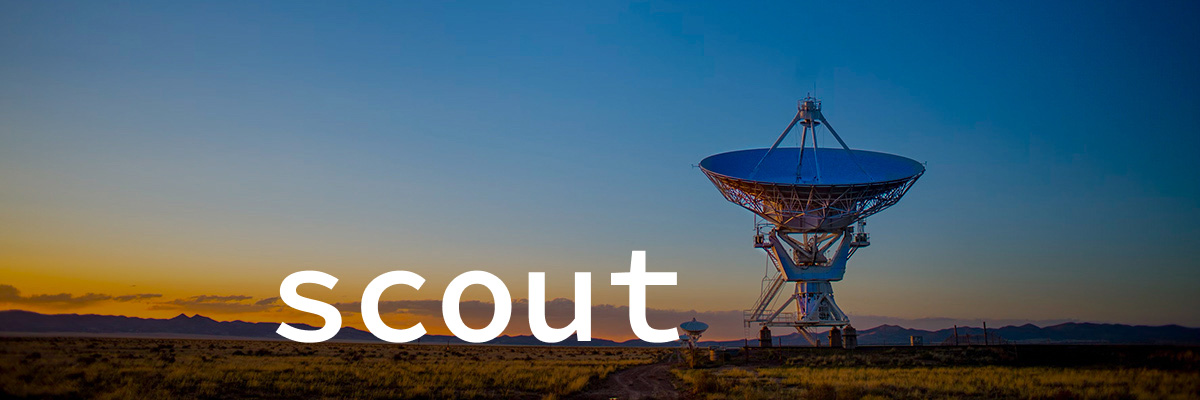
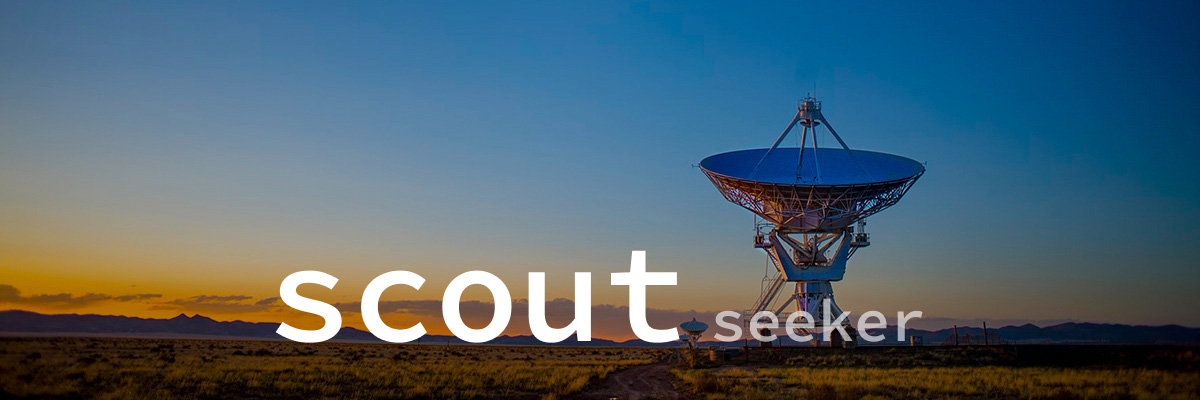
Refactor code to update scout version to 0.2.0

Changed region(s): [[0.5858, 0.75, 0.7708, 0.87], [0.2467, 0.81, 0.2775, 0.84]]

diff --git a/testing.md b/testing.md
@@ -4,7 +4,7 @@
 cargo test
 rm -rf ./target
 cargo build --release
-rm -f ~/Downloads/scout
-cp target/release/scout ~/Downloads
-~/Downloads/scout ~/Downloads
+rm -f ~/Downloads/scout-seeker
+cp target/release/scout-seeker ~/Downloads
+~/Downloads/scout-seeker ~/Downloads
 ```
